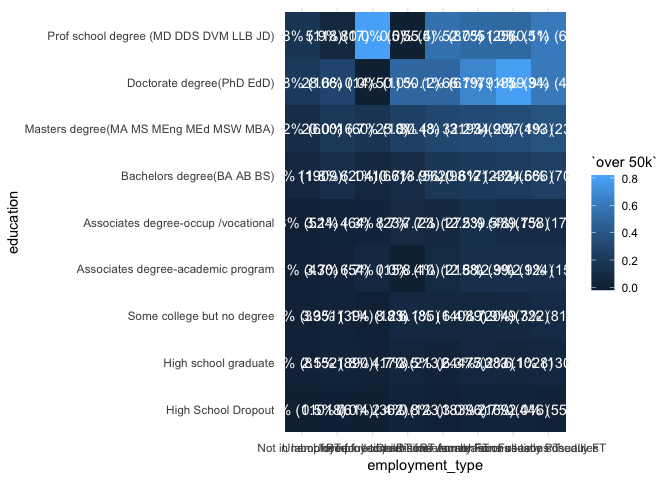
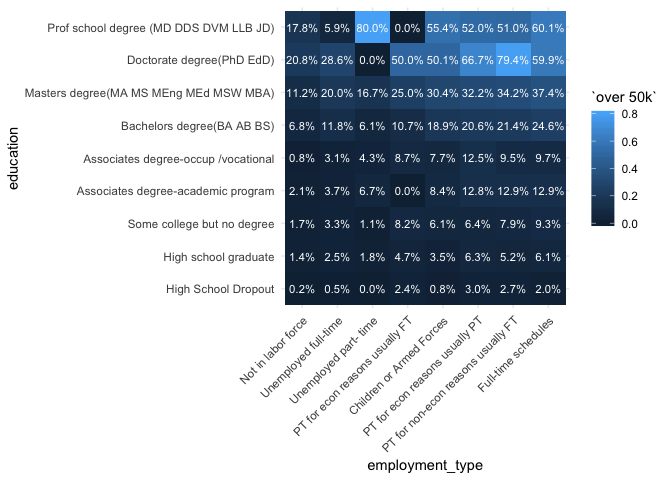
correct labels and text size of tile plot

diff --git a/Rmd/eda.md b/Rmd/eda.md
@@ -453,7 +453,8 @@ train %>%
              education,
              fill = `over 50k`)) +
   geom_tile() +
-  geom_text(aes(label = paste(scales::percent(`over 50k`), " (", n, ")", sep = "")), color = "white")
+  geom_text(aes(label = scales::percent(`over 50k`)), size = 3, color = "white") +
+  theme(axis.text.x = element_text(angle = 45, hjust = 1))
 ```
 
 ![](eda_files/figure-gfm/unnamed-chunk-11-1.png)<!-- -->
